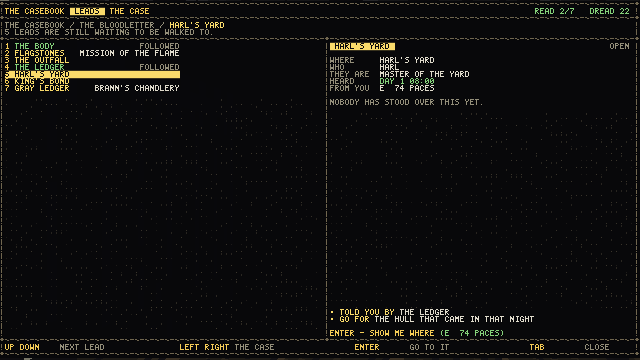
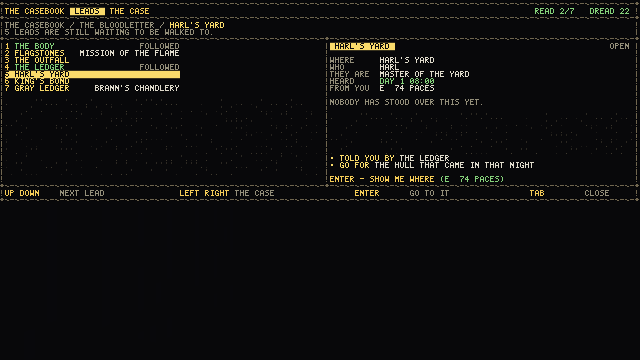
render: the card owns the frame, the sign yields to the prompt, and the ruler stops moving
Three findings from the demo's own 23 frames, in one file's worth of overlap.

ITEM 3 -- THE END CARD. The last image a viewer of the demo ever sees
carried a compass ribbon, a clock, a temperature, `CASE 2/7 > MISSION OF
THE FLAME` with a green fatigue bar, and a building name hanging off its
right border. It read as a screenshot taken by accident.

Every composed page in this build already stands the HUD down when it takes
the screen -- the ward map, the controls page and the casebook each zero the
compass, the clock, the purse and the plates before they draw. The card is
the same kind of surface with one difference: the director draws it AFTER
Session::drawFrame has returned, so it cannot stand anything down from the
inside. Session::setHudStandDown is how it says so from the outside, and
the client asks DemoDirector::cardOwnsFrame before it draws rather than
after. Every interface pass in drawFrame now reads one local `furniture`
rather than testing config_.hud itself, so the two switches cannot drift
apart one branch at a time.

It takes the WORLD SIGNAGE with it, which config_.hud deliberately does
not. Signage is world content and the --nohud instrument has to keep
measuring it -- but a card is a presentation surface, and a building name
touching its border is the compass collision one step further out.

ITEM 4 -- MERLE'S BOATS, TWICE. `night-beacon` and `quay-turret` both read
the world sign and the aim prompt naming the same building two rows apart.
[…]

diff --git a/native/src/render/session.cpp b/native/src/render/session.cpp
@@ -5658,8 +5658,24 @@ FrameStats Session::drawFrame(Framebuffer& target) const {
     //
     // A frame with nothing under the reticle hands back an empty rect and the
     // signs are placed exactly as they were before this existed.
+    //
+    // THE FURNITURE, IN ONE PLACE. `config_.hud` is the --nohud instrument and
+    // `hudStandDown_` is a card owning the frame (see Session::setHudStandDown);
+    // below, every interface pass reads THIS rather than testing the two
+    // itself, so the two switches cannot drift apart one branch at a time.
+    const bool furniture = config_.hud && !hudStandDown_;
+
     SignageSettings signage;
-    {
+    // ...AND THE EXCLUSION IS COMPUTED ONLY WHEN THERE IS A PROMPT TO EXCLUDE.
+    //
+    // It used to be computed unconditionally, so under --nohud the signs still
+    // stepped around an aim prompt that was never drawn. Zero gameplay impact
+    // and a real measurement one: --nohud is the RULER this project takes every
+    // interface number with, and a ruler that moves the world it is measuring
+    // overstates every reading it gives. 368 to 656 pixels of a 640x360 frame
+    // (0.16-0.29%) were counted as interface that were signs standing somewhere
+    // else. See docs/HUD-REAL-ESTATE.md.
+    if (config_.hud) {
         HudState aim;
         aim.aimKey = keyName(controls_.primary[static_cast<std::size_t>(Action::Interact)]);
         aim.aimVerb = std::string_view{interactCache_};
@@ -5667,8 +5683,20 @@ FrameStats Session::drawFrame(Framebuffer& target) const {
         aim.aimNote = std::string_view{interactNoteCache_};
         aim.interactFade = interactAnim_.value();
         signage.exclusion = hudAimPromptRect(aim, target.width(), target.height());
+        // ...AND THE NAME IT IS ALREADY SAYING. See
+        // SignageSettings::namedByPrompt: the prompt carries the verb and the
+        // key, so where the two would say the same building the SIGN yields.
+        // Gated on the prompt actually being on screen (interactFade), or a
+        // sign would vanish for a subject the crosshair had already left.
+        if (aim.interactFade > 0.0F) {
+            signage.namedByPrompt = aim.aimSubject;
+        }
     }
-    drawSignage(target, view, signage);
+    // Signage is WORLD CONTENT and stays outside config_.hud -- the ruler has
+    // to keep measuring it. A card is the one thing it yields to.
+    if (!hudStandDown_) {
+        drawSignage(target, view, signage);
+    }
 
     // INNOVATION SPRINT ITEM #3. A BRAWL FINALLY HAS SOME PHYSICAL WEIGHT.
     // Two brief, low-alpha washes over the WORLD -- drawn here, before the
@@ -5947,7 +5975,7 @@ FrameStats Session::drawFrame(Framebuffer& target) const {
             // nothing under it moves when a bouncer starts talking.
             plan.alert = tavern_->lastWarning();
         }
-        if (config_.hud) {
+        if (furniture) {
             drawDistrictMap(target, plan);
             drawHud(target, hud);
         }
@@ -5978,7 +6006,7 @@ FrameStats Session::drawFrame(Framebuffer& target) const {
         }
         hud.timeOfDaySeconds = -1;
         hud.coin = -1;
-        if (config_.hud) {
+        if (furniture) {
             drawKeysPage(target, page);
             drawHud(target, hud);
         }
@@ -6025,7 +6053,7 @@ FrameStats Session::drawFrame(Framebuffer& target) const {
         hud.casePlateFade = 0.0F;
         hud.showHealth = false;
         hud.showAlert = false;
-        if (config_.hud) {
+        if (furniture) {
             drawCasebookPage(target, page);
             drawHud(target, hud);
         }
@@ -6061,7 +6089,7 @@ FrameStats Session::drawFrame(Framebuffer& target) const {
         tiles.mapFocus = mapFocusAnim_.value();
         tiles.lettersFocus = lettersFocusAnim_.value();
         tiles.journalFocus = journalFocusAnim_.value();
-        if (config_.hud) {
+        if (furniture) {
             drawMenuTiles(target, tiles);
             drawHud(target, hud);
         }
@@ -6094,7 +6122,7 @@ FrameStats Session::drawFrame(Framebuffer& target) const {
     panel.open = panel.open || panelAnim_.value() > 0.0F;
     // The panel FIRST, the HUD over it: a bouncer's warning has to survive
     // being told mid-conversation, and it is the one line that outranks a menu.
-    if (config_.hud) {
+    if (furniture) {
         drawDialogue(target, panel);
         drawHud(target, hud);
     }

diff --git a/native/include/granadad/render/signage_renderer.hpp b/native/include/granadad/render/signage_renderer.hpp
@@ -24,6 +24,8 @@
 // is not in view at all from here) or something nearer (a wall in front of
 // it).
 
+#include <string_view>
+
 #include "granadad/render/framebuffer.hpp"
 #include "granadad/render/hud.hpp"
 #include "granadad/render/world_renderer.hpp"
@@ -60,6 +62,28 @@ struct SignageSettings {
     /// right half of the centre band; excluding all of it would drop signs that
     /// were never in the prompt's way.
     CentreRect exclusion{0, 0, 0, 0};
+    /// THE BUILDING THE CROSSHAIR IS ALREADY NAMING, so the ward does not name
+    /// it twice in the same breath.
+    ///
+    /// Two frames of the demo caught this exactly -- `night-beacon` and
+    /// `quay-turret` both read `MERLE'S BOATS` as a world sign and `MERLE'S
+    /// BOATS / E - LOOK` as the prompt two rows under it. The anti-overlap rule
+    /// above cannot help: the two do not collide, they are neighbours, and
+    /// neighbours saying the same word is worse than an overlap because it
+    /// reads as a bug rather than as clutter.
+    ///
+    /// THE SIGN IS THE ONE THAT YIELDS, and the prompt stays. The sign exists
+    /// to answer "what is that over there" at a distance; the prompt answers
+    /// "what is this and what key opens it", carries a VERB and a KEY the sign
+    /// does not have, and is the one the player summoned by aiming. When both
+    /// are on screen the prompt is strictly the better of the two, so the sign
+    /// steps back for exactly as long as the prompt is naming its building --
+    /// and is back the moment the crosshair moves off, which is the one frame
+    /// the player needs it again.
+    ///
+    /// Empty suppresses nothing, so a caller that does not pass one is
+    /// pixel-identical to before this existed.
+    std::string_view namedByPrompt;
 };
 
 /// Draws every Docks sign that is in range, facing the right way to be seen,

diff --git a/native/include/granadad/render/session.hpp b/native/include/granadad/render/session.hpp
@@ -124,6 +124,25 @@ public:
     explicit Session(const SessionConfig& config);
 
     [[nodiscard]] const SessionConfig& config() const noexcept { return config_; }
+
+    /// A FULL-SCREEN SURFACE THIS SESSION DOES NOT OWN IS UP; stand the
+    /// furniture down for it.
+    ///
+    /// Every composed page in here already does this from the inside -- the
+    /// ward map, the controls page and the casebook each zero the compass, the
+    /// clock, the purse and the plates before they draw, because their own
+    /// breadcrumb and their own right-aligned readout live exactly where those
+    /// sit. The demo's title card is the same kind of surface with one
+    /// difference: it is drawn by the director AFTER drawFrame has returned, so
+    /// it cannot stand anything down from the inside. This is how it says so.
+    ///
+    /// It takes the WORLD SIGNAGE with it, which config_.hud deliberately does
+    /// not. Signage is world content and the --nohud instrument must keep
+    /// measuring it -- but a card is a presentation surface and a building name
+    /// hanging off its border is the same collision the compass makes, one step
+    /// further out.
+    void setHudStandDown(bool down) noexcept { hudStandDown_ = down; }
+    [[nodiscard]] bool hudStandDown() const noexcept { return hudStandDown_; }
     [[nodiscard]] const sim::TileQuery& tiles() const noexcept { return *tiles_; }
     [[nodiscard]] sim::PlayerBody& body() noexcept { return *body_; }
     [[nodiscard]] const sim::PlayerBody& body() const noexcept { return *body_; }
@@ -1410,6 +1429,8 @@ private:
     void syncPanelAnim() noexcept;
 
     SessionConfig config_;
+    /// See setHudStandDown. Frame-scoped: the client sets it every frame.
+    bool hudStandDown_ = false;
     content::World world_;
     std::unique_ptr<sim::TileQuery> tiles_;
     TileAtlas atlas_;

diff --git a/native/include/granadad/render/demo.hpp b/native/include/granadad/render/demo.hpp
@@ -146,6 +146,22 @@ class DemoDirector {
     };
     [[nodiscard]] Tick advance(Session& session);
 
+    /// THE CARD OWNS THE FRAME while this is true.
+    ///
+    /// Every composed page in this build already stands the HUD down when it
+    /// takes the screen -- the ward map, the controls page and the casebook all
+    /// do it, and for the same reason: a full-screen surface with its own
+    /// header and its own readout does not want a compass ribbon and a clock
+    /// landing in them. The card is the one full-screen surface the SESSION
+    /// does not own -- the director draws it after drawFrame has already
+    /// returned -- so it cannot stand the HUD down from the inside and has to
+    /// say so from the outside. The client asks this before it draws.
+    ///
+    /// The threshold is the same one drawOverlay uses to decide the card is on
+    /// screen at all, so the furniture is gone for exactly the frames the card
+    /// is up and not one either side.
+    [[nodiscard]] bool cardOwnsFrame() const noexcept;
+
     /// The card and the caption, drawn over the finished frame.
     void drawOverlay(Framebuffer& target, const Session& session) const;
 

diff --git a/native/src/client/main.cpp b/native/src/client/main.cpp
@@ -4055,6 +4055,15 @@ int run_client(const Options& options, const render::CreationResult& chosen) {
             audio->update(static_cast<float>(frameSeconds));
         }
 
+        // THE CARD OWNS THE FRAME. Asked BEFORE drawFrame, because the card is
+        // drawn after it and the HUD it would sit under is drawn inside it --
+        // see Session::setHudStandDown and DemoDirector::cardOwnsFrame. Without
+        // this the end card, which is the last thing a viewer of the demo ever
+        // sees, carried a compass, a clock, a case trail with a green bar and a
+        // building name hanging off its right border.
+        if (demo != nullptr) {
+            session.setHudStandDown(demo->cardOwnsFrame());
+        }
         session.drawFrame(frame);
         // THE CARD AND THE CAPTION GO ON LAST, over the finished frame, and
         // the shutter goes after them -- so what a capture holds is exactly

diff --git a/native/src/render/signage_renderer.cpp b/native/src/render/signage_renderer.cpp
@@ -97,6 +97,10 @@ void drawSignage(Framebuffer& target, const Camera& camera, const SignageSetting
     }
 
     for (const Candidate& candidate : candidates) {
+        // ALREADY SAID, ONCE, BETTER. See SignageSettings::namedByPrompt.
+        if (!settings.namedByPrompt.empty() && candidate.text == settings.namedByPrompt) {
+            continue;
+        }
         const float relX = candidate.worldX - camera.x;
         const float relY = candidate.worldY - camera.y;
         const float lateral = relX * rightX + relY * rightY;

diff --git a/native/src/render/demo.cpp b/native/src/render/demo.cpp
@@ -593,6 +593,10 @@ void DemoDirector::shutter(const Framebuffer& target) {
     (void)writePng(target, (shotDir_ / (name + ".png")).string());
 }
 
+bool DemoDirector::cardOwnsFrame() const noexcept {
+    return card_.value() > 0.01F && !cardLine_.empty();
+}
+
 void DemoDirector::drawOverlay(Framebuffer& target, const Session& session) const {
     const PanelMetric metric = panelMetric(target.height());
     const PanelInk& ink = panelInk();
